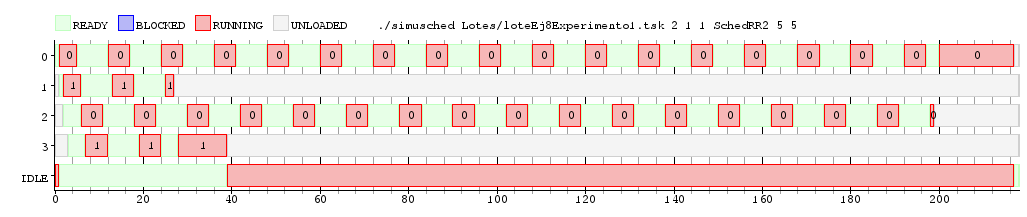
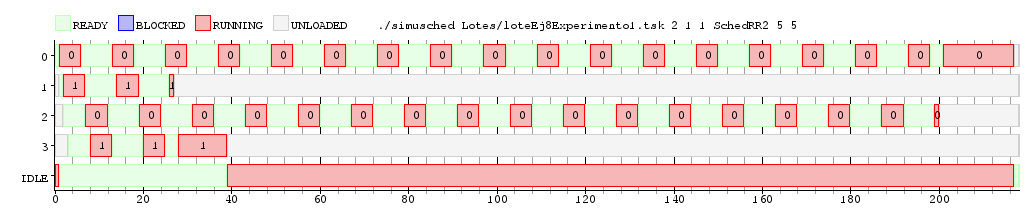
Cambio en rr.

diff --git a/tp-scheduling/simusched/sched_rr.cpp b/tp-scheduling/simusched/sched_rr.cpp
@@ -24,19 +24,7 @@ SchedRR::~SchedRR() {
 
 
 void SchedRR::load(int pid) {
-	int i = 0;
-	bool loEncontre = false;
-	while(i < pid_cores.size() && !loEncontre){
-		if(pid_cores[i] == IDLE_TASK || estaBloqueado(pid_cores[i])){
-			pid_cores[i] = pid;
-			quantum_restantes[i] = cpu_quantum;
-			loEncontre = true;
-		}
-		i++;
-	}
-	if(!loEncontre){
-		enEspera.push(pid);
-	}
+	enEspera.push(pid);
 }
 
 

diff --git a/tp-scheduling/simusched/sched_rr2.cpp b/tp-scheduling/simusched/sched_rr2.cpp
@@ -42,13 +42,8 @@ void SchedRR2::load(int pid) {
 	}
 
 
-	if(!estaBloqueado(nucleos[indice_resultado].pidActual, indice_resultado)){
-		nucleos[indice_resultado].enEspera.push(pid);
-	}
-	else{
-		nucleos[indice_resultado].quantum_restantes = cpu_quantum;	
-		nucleos[indice_resultado].pidActual = pid;
-	}
+	nucleos[indice_resultado].enEspera.push(pid);
+
 	
 	
 	
